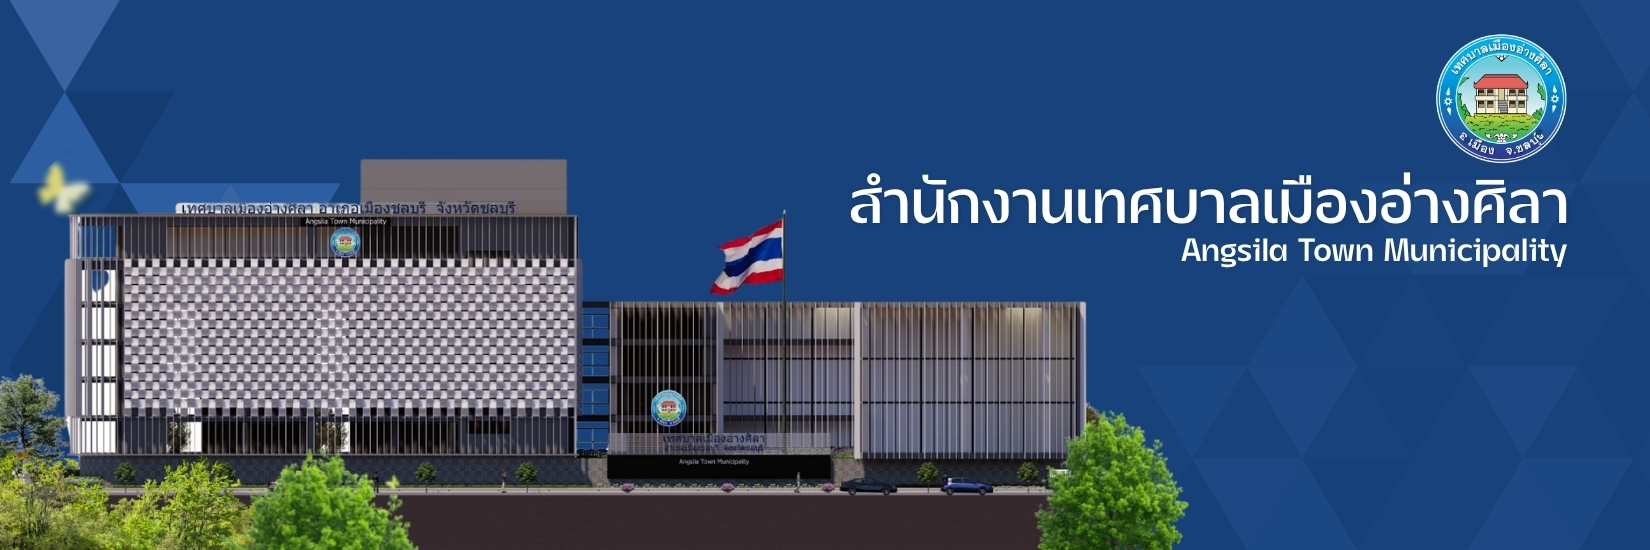
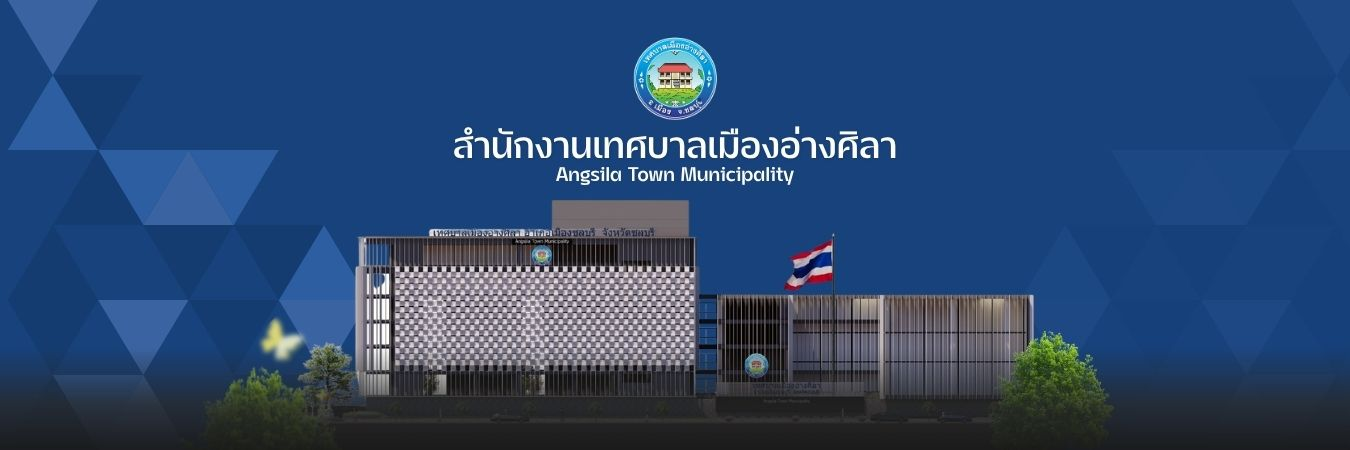
edit problem

diff --git a/index.html b/index.html
@@ -40,7 +40,7 @@
 
     <!-- Newbox: ผู้บริหาร & สไลด์ข่าว -->
     <section class="container mx-auto px-4 py-8">
-        <div class="flex flex-col md:flex-row gap-6 h-auto md:h-80">
+        <div class="flex flex-col-reverse md:flex-row gap-6 h-auto md:h-80">
             <div
                 class="w-full md:w-1/4 bg-white p-4 rounded-xl shadow-sm border-t-4 border-blue-500 flex flex-col items-center justify-center text-center">
                 <div
